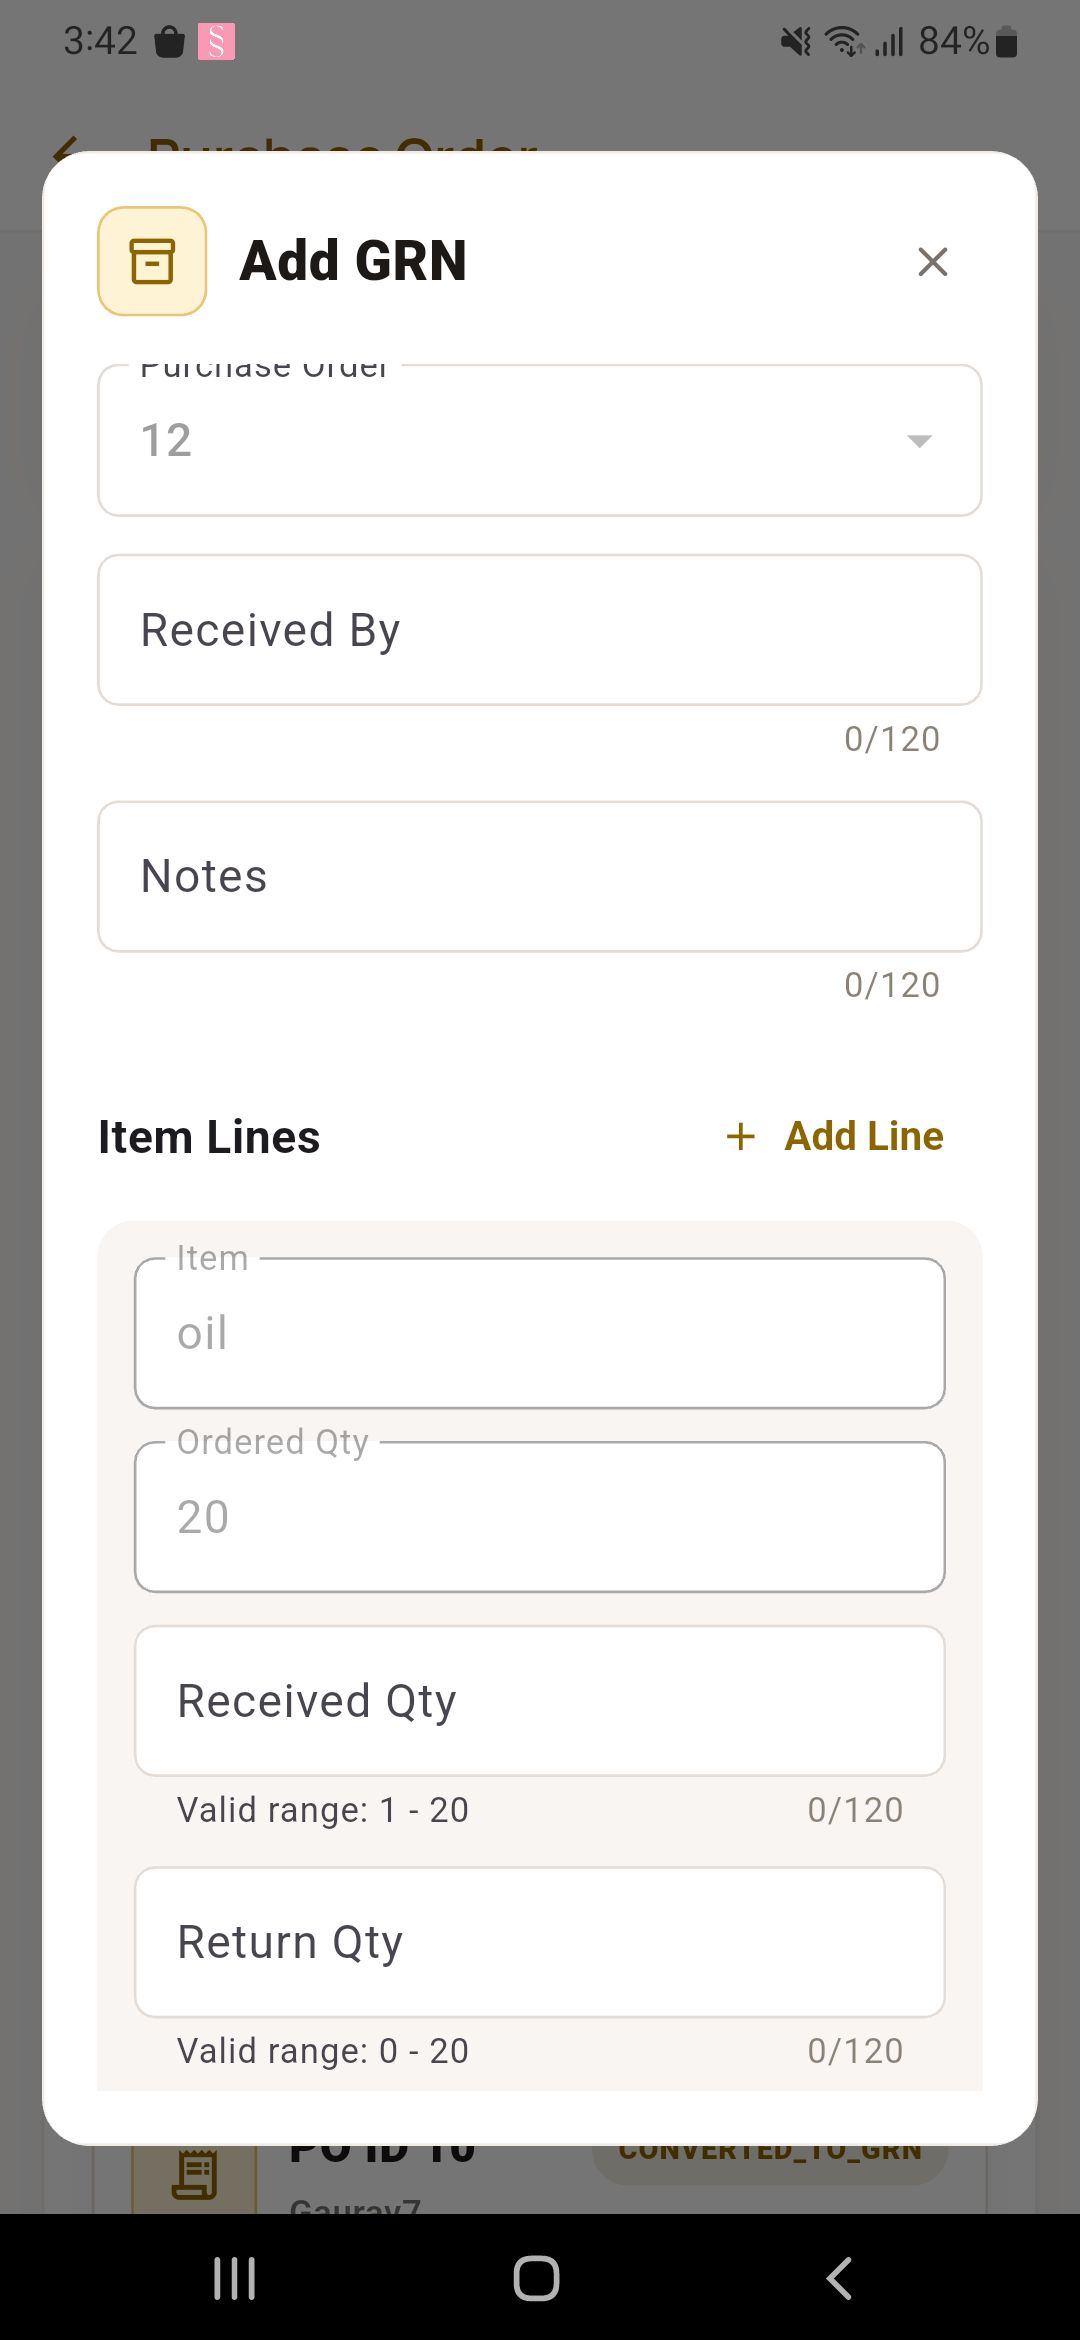
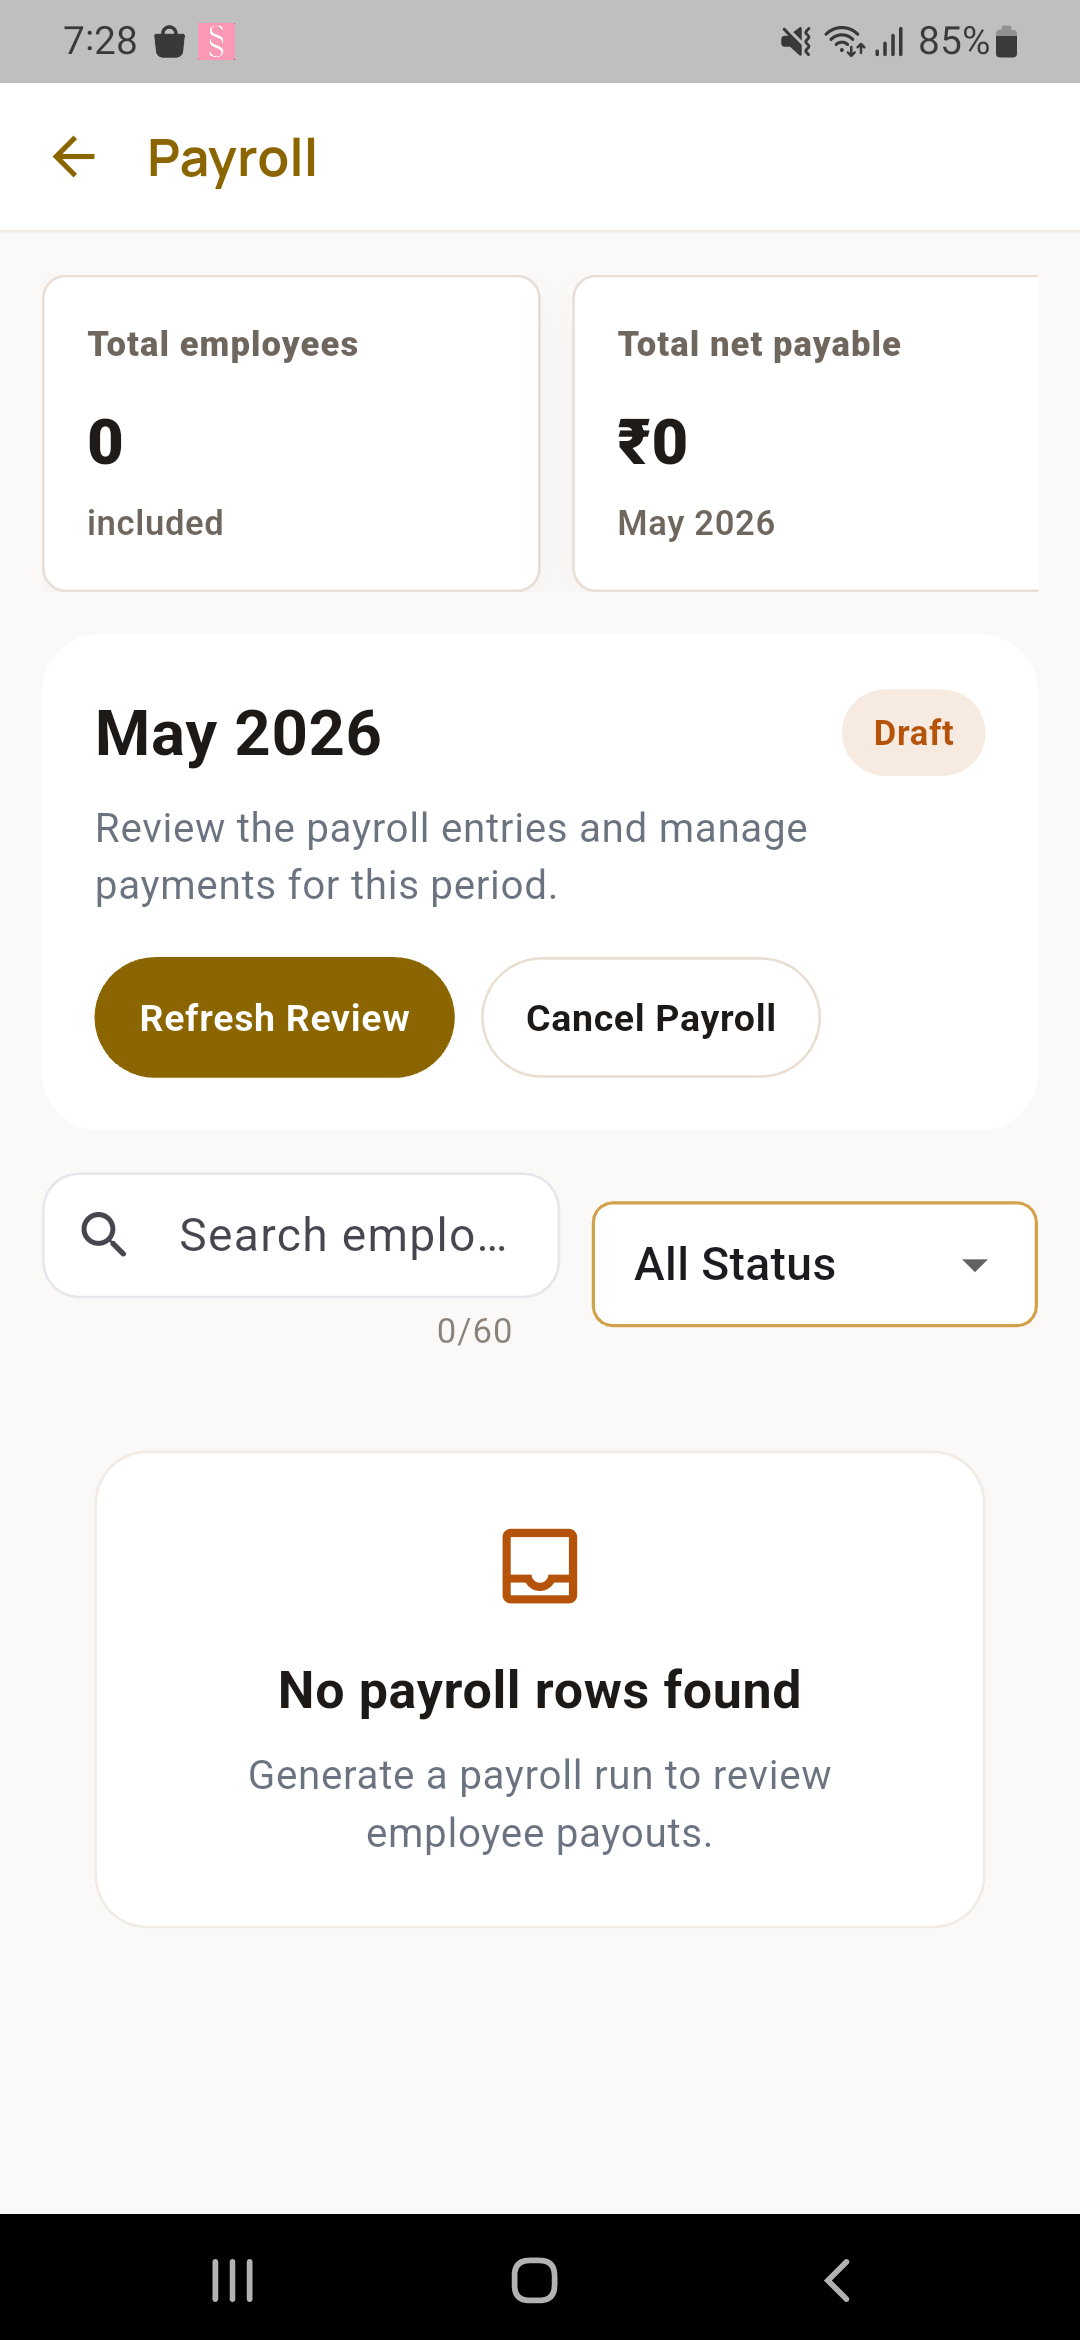
updated add advance screen

diff --git a/lib/features/profile/compensation/profile_compensation_screen.dart b/lib/features/profile/compensation/profile_compensation_screen.dart
@@ -968,6 +968,8 @@ class _ProfileCompensationScreenState extends State<ProfileCompensationScreen> {
 
   Color _statusColor(String status) {
     switch (status.toLowerCase()) {
+      case 'draft':
+        return const Color(0xFFB45309);
       case 'paid':
         return const Color(0xFF157347);
       case 'cancelled':
@@ -3283,52 +3285,52 @@ class _MetricCard extends StatelessWidget {
 class _PayrollRunTile extends StatelessWidget {
   const _PayrollRunTile({
     required this.run,
-    required this.amountLabel,
     required this.statusColor,
     required this.onOpen,
   });
 
   final PayrollRunRecord run;
-  final String amountLabel;
   final Color statusColor;
   final VoidCallback onOpen;
 
   @override
   Widget build(BuildContext context) {
-    return Material(
-      color: Colors.white,
-      borderRadius: BorderRadius.circular(18),
-      child: InkWell(
-        borderRadius: BorderRadius.circular(18),
-        onTap: onOpen,
-        child: Padding(
+    return LayoutBuilder(
+      builder: (context, constraints) {
+        final isCompact = constraints.maxWidth < 620;
+        final content = Padding(
           padding: const EdgeInsets.all(16),
           child: Row(
             children: [
               Expanded(
-                child: Column(
-                  crossAxisAlignment: CrossAxisAlignment.start,
-                  children: [
-                    Text(
-                      run.periodLabel,
-                      style: const TextStyle(
-                        fontSize: 16,
-                        fontWeight: FontWeight.w700,
-                        color: Color(0xFF1C1917),
-                      ),
-                    ),
-                    const SizedBox(height: 6),
-                    Text(
-                      '${run.employeeCount} employees • $amountLabel',
-                      style: const TextStyle(
-                        fontSize: 13,
-                        color: Color(0xFF6B7280),
-                      ),
-                    ),
-                  ],
-                ),
+                flex: 2,
+                child: _RunTitleBlock(run: run),
               ),
               const SizedBox(width: 12),
+              _RunMetricCard(
+                label: 'Employees',
+                value: '${run.employeeCount}',
+                width: 118,
+              ),
+              const SizedBox(width: 10),
+              _RunMetricCard(
+                label: 'Net',
+                value: _formatCurrency(run.totalAmountMinor),
+                width: 124,
+              ),
+              const SizedBox(width: 10),
+              _RunMetricCard(
+                label: 'Paid',
+                value: _formatCurrency(run.paidAmountMinor),
+                width: 124,
+              ),
+              const SizedBox(width: 10),
+              _RunMetricCard(
+                label: 'Pending',
+                value: _formatCurrency(run.outstandingAmountMinor),
+                width: 124,
+              ),
+              const SizedBox(width: 10),
               _StatusPill(label: run.statusLabel, color: statusColor),
               const SizedBox(width: 10),
               Material(
@@ -3353,6 +3355,115 @@ class _PayrollRunTile extends StatelessWidget {
               ),
             ],
           ),
+        );
+        return Material(
+          color: Colors.white,
+          borderRadius: BorderRadius.circular(18),
+          child: InkWell(
+            borderRadius: BorderRadius.circular(18),
+            onTap: onOpen,
+            child: ClipRRect(
+              borderRadius: BorderRadius.circular(18),
+              child: isCompact
+                  ? SingleChildScrollView(
+                      scrollDirection: Axis.horizontal,
+                      physics: const BouncingScrollPhysics(),
+                      child: SizedBox(width: 760, child: content),
+                    )
+                  : content,
+            ),
+          ),
+        );
+      },
+    );
+  }
+}
+
+class _RunTitleBlock extends StatelessWidget {
+  const _RunTitleBlock({required this.run});
+
+  final PayrollRunRecord run;
+
+  @override
+  Widget build(BuildContext context) {
+    return Column(
+      crossAxisAlignment: CrossAxisAlignment.start,
+      mainAxisSize: MainAxisSize.min,
+      children: [
+        Text(
+          run.periodLabel,
+          maxLines: 1,
+          overflow: TextOverflow.ellipsis,
+          style: const TextStyle(
+            fontSize: 16,
+            fontWeight: FontWeight.w700,
+            color: Color(0xFF1C1917),
+          ),
+        ),
+        const SizedBox(height: 6),
+        Text(
+          'Payroll run summary',
+          maxLines: 1,
+          overflow: TextOverflow.ellipsis,
+          style: const TextStyle(
+            fontSize: 13,
+            color: Color(0xFF6B7280),
+          ),
+        ),
+      ],
+    );
+  }
+}
+
+class _RunMetricCard extends StatelessWidget {
+  const _RunMetricCard({
+    required this.label,
+    required this.value,
+    this.width = 126,
+  });
+
+  final String label;
+  final String value;
+  final double width;
+
+  @override
+  Widget build(BuildContext context) {
+    return SizedBox(
+      width: width,
+      child: Container(
+        padding: const EdgeInsets.symmetric(horizontal: 12, vertical: 12),
+        decoration: BoxDecoration(
+          color: const Color(0xFFFAFAF9),
+          borderRadius: BorderRadius.circular(14),
+          border: Border.all(color: const Color(0xFFE8DED6)),
+        ),
+        child: Column(
+          crossAxisAlignment: CrossAxisAlignment.start,
+          mainAxisSize: MainAxisSize.min,
+          children: [
+            Text(
+              label,
+              maxLines: 1,
+              overflow: TextOverflow.ellipsis,
+              style: const TextStyle(
+                fontSize: 11,
+                fontWeight: FontWeight.w800,
+                color: Color(0xFF6F665E),
+                letterSpacing: 0.3,
+              ),
+            ),
+            const SizedBox(height: 8),
+            Text(
+              value,
+              maxLines: 1,
+              overflow: TextOverflow.ellipsis,
+              style: const TextStyle(
+                fontSize: 17,
+                fontWeight: FontWeight.w800,
+                color: Color(0xFF1C1917),
+              ),
+            ),
+          ],
         ),
       ),
     );

diff --git a/lib/features/profile/compensation/owner_payroll.dart b/lib/features/profile/compensation/owner_payroll.dart
@@ -97,7 +97,6 @@ extension _OwnerPayrollUi on _ProfileCompensationScreenState {
                     padding: const EdgeInsets.only(bottom: 10),
                     child: _PayrollRunTile(
                       run: run,
-                      amountLabel: _formatCurrency(run.totalAmountMinor),
                       statusColor: _statusColor(run.statusLabel),
                       onOpen: () {
                         _openPayrollReview(run);
@@ -310,15 +309,30 @@ class _PayrollSetupView extends StatefulWidget {
 
 class _PayrollSetupViewState extends State<_PayrollSetupView> {
   final Set<int> _savingIds = <int>{};
+  late Map<int, PayrollSetupRecord> _visibleSetups;
+
+  @override
+  void initState() {
+    super.initState();
+    _visibleSetups = Map<int, PayrollSetupRecord>.from(widget.existingSetups);
+  }
+
+  @override
+  void didUpdateWidget(covariant _PayrollSetupView oldWidget) {
+    super.didUpdateWidget(oldWidget);
+    _visibleSetups
+      ..clear()
+      ..addAll(widget.existingSetups);
+  }
 
   int get _configuredCount => widget.teamMembers
-      .where((member) => widget.existingSetups.containsKey(member.id))
+      .where((member) => _visibleSetups.containsKey(member.id))
       .length;
 
   int get _pendingCount => widget.teamMembers.length - _configuredCount;
 
   Future<void> _openEditDialog(ProfileTeamMember member) async {
-    final initial = widget.existingSetups[member.id];
+    final initial = _visibleSetups[member.id];
     debugPrint(
       '[OwnerCompensation:payroll] open_payroll_setup_member_dialog | '
       'userId=${member.id}, configured=${initial != null}',
@@ -328,10 +342,12 @@ class _PayrollSetupViewState extends State<_PayrollSetupView> {
       builder: (dialogContext) {
         return AlertDialog(
           insetPadding:
-              const EdgeInsets.symmetric(horizontal: 20, vertical: 24),
+              const EdgeInsets.symmetric(horizontal: 12, vertical: 24),
           contentPadding: const EdgeInsets.all(16),
           content: ConstrainedBox(
-            constraints: const BoxConstraints(maxWidth: 560),
+            constraints: BoxConstraints(
+              maxWidth: MediaQuery.sizeOf(dialogContext).width - 24,
+            ),
             child: SingleChildScrollView(
               child: _PayrollSetupMemberCard(
                 member: member,
@@ -345,6 +361,11 @@ class _PayrollSetupViewState extends State<_PayrollSetupView> {
                   setState(() => _savingIds.add(member.id));
                   try {
                     await widget.onSave(setup);
+                    if (mounted) {
+                      setState(() {
+                        _visibleSetups[member.id] = setup;
+                      });
+                    }
                     debugPrint(
                       '[OwnerCompensation:payroll] payroll_setup_member_save_success | '
                       'userId=${member.id}',
@@ -485,7 +506,7 @@ class _PayrollSetupViewState extends State<_PayrollSetupView> {
                       ...widget.teamMembers.asMap().entries.map((entry) {
                         final index = entry.key;
                         final member = entry.value;
-                        final setup = widget.existingSetups[member.id];
+                        final setup = _visibleSetups[member.id];
                         final payType = setup == null
                             ? 'Not configured'
                             : PayrollTypes.label(setup.payrollType);

diff --git a/lib/features/profile/compensation/profile_compensation_models.dart b/lib/features/profile/compensation/profile_compensation_models.dart
@@ -732,6 +732,9 @@ class PayrollRunRecord {
 
   String get statusLabel {
     final normalizedStatus = normalizedBackendStatus;
+    if (normalizedStatus == 'draft') {
+      return 'Draft';
+    }
     if (normalizedStatus == 'cancelled') {
       return 'Cancelled';
     }